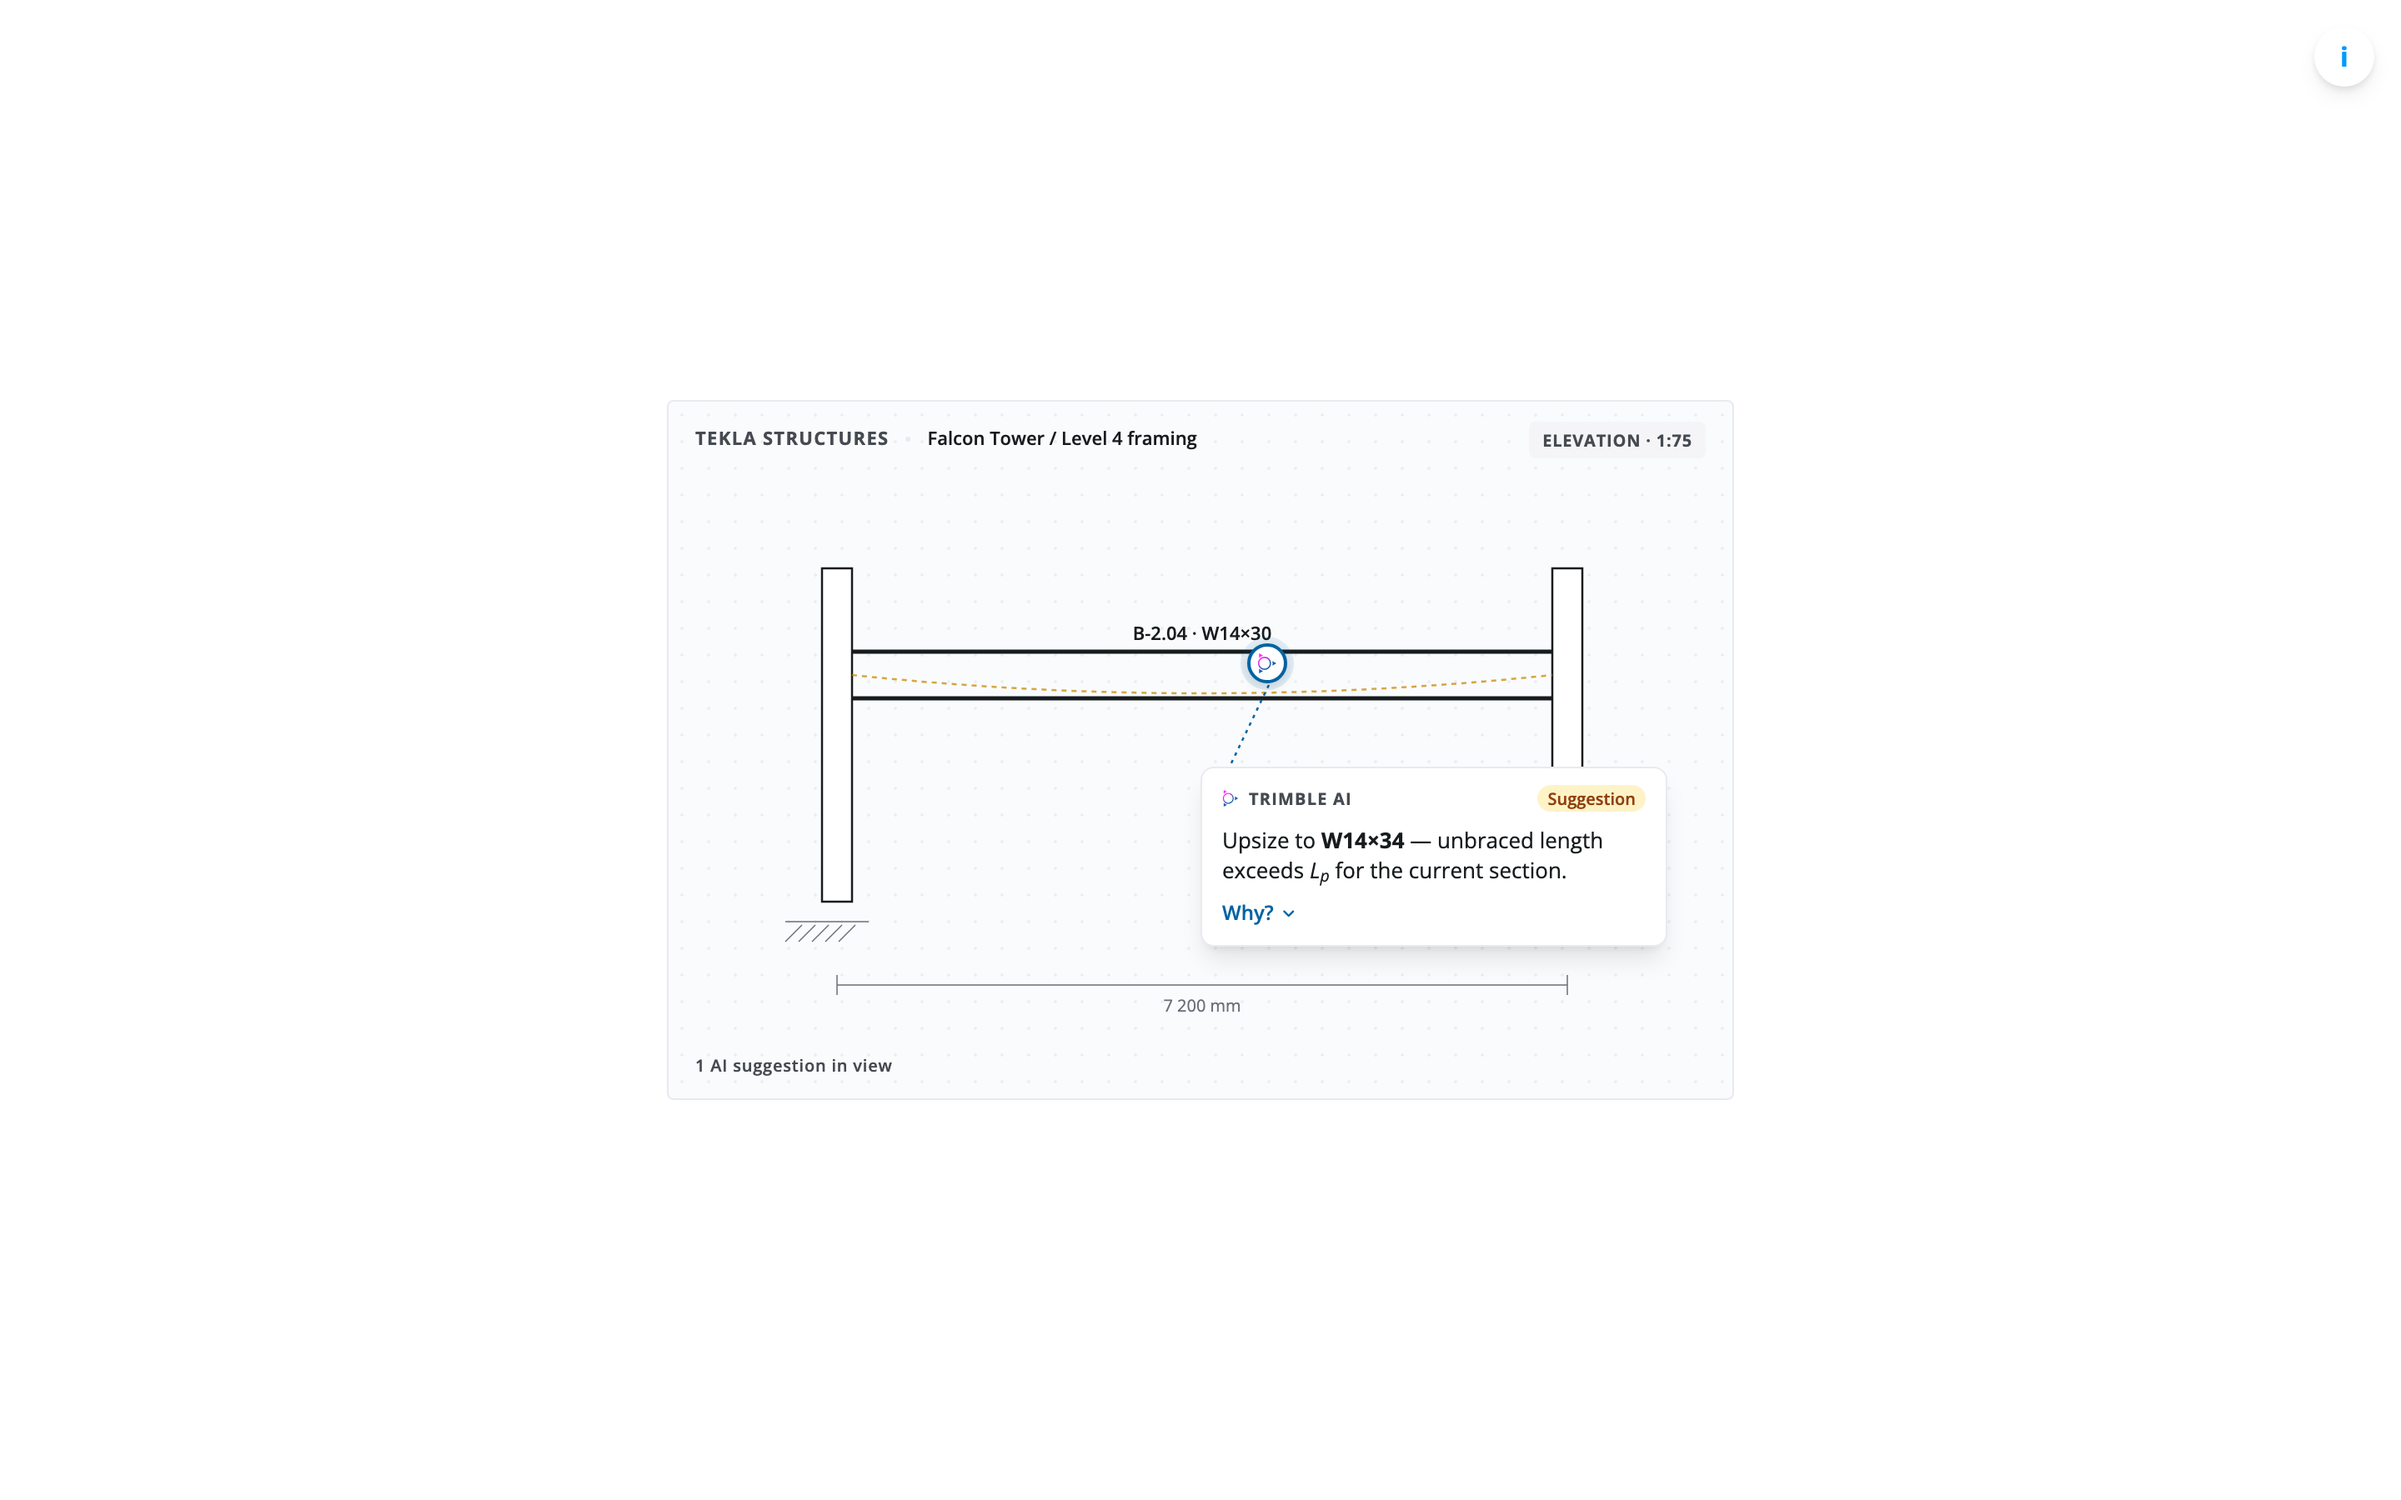
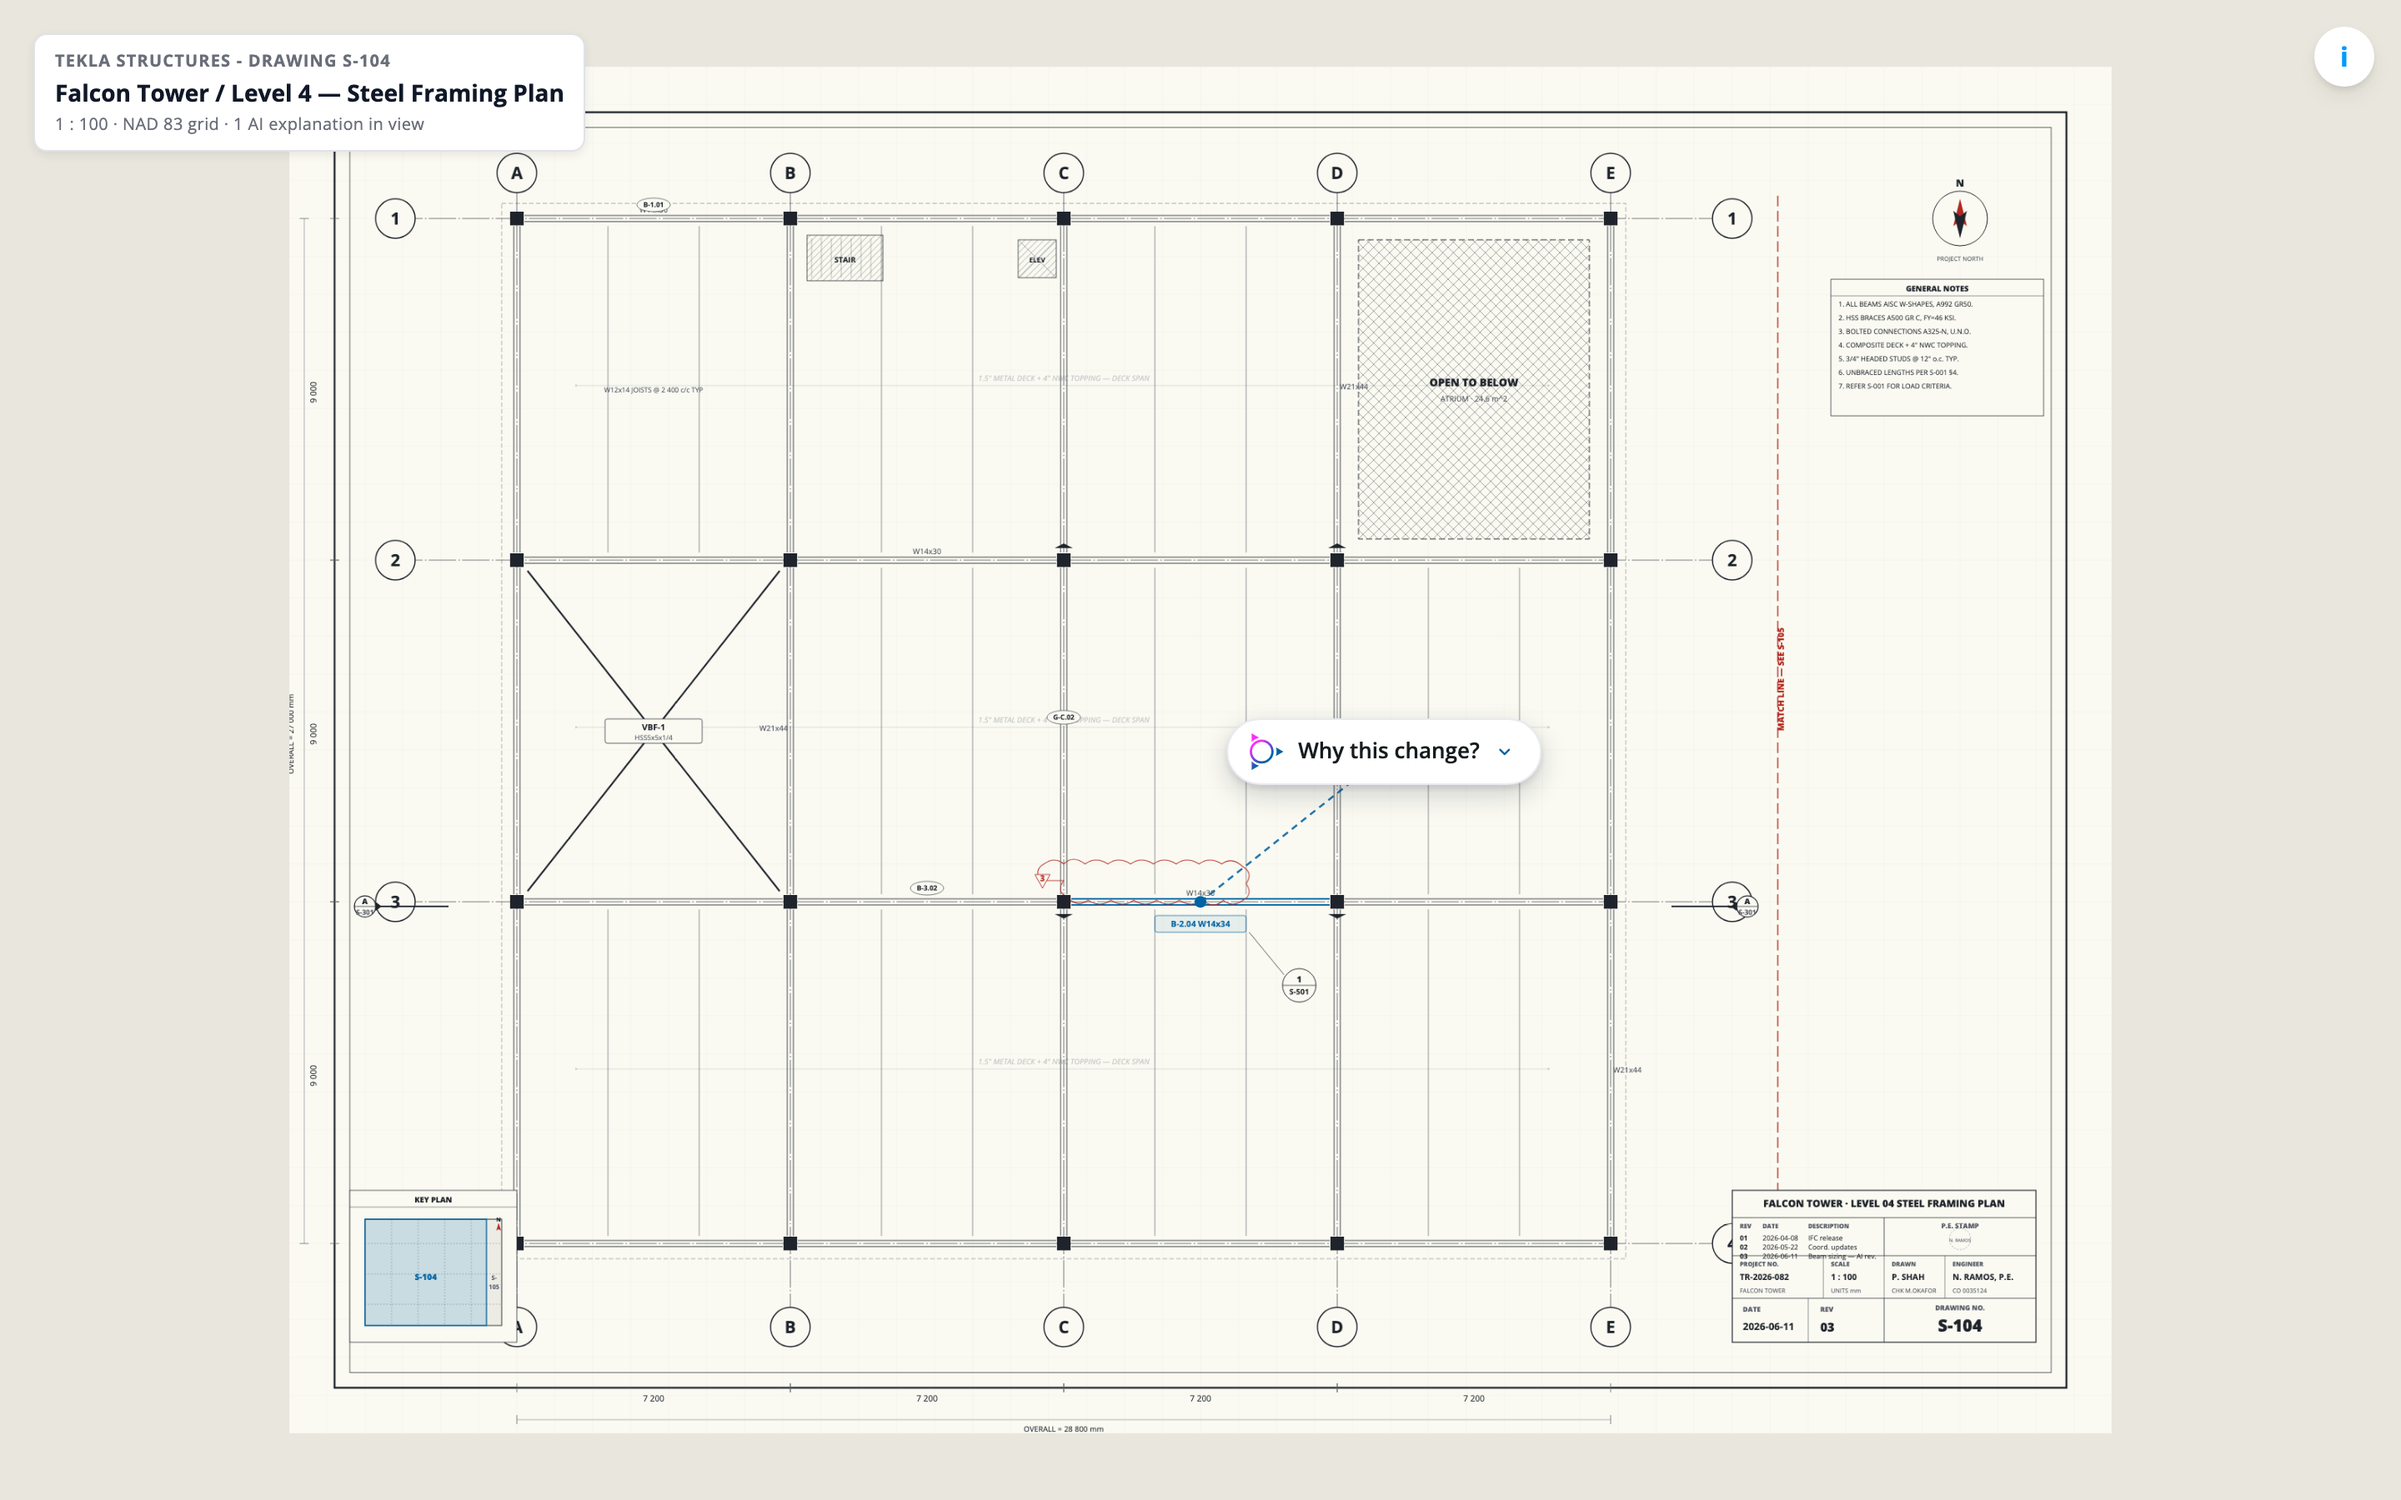
Expert4: highlight key facts and clean up evidence card connector
Bump the AI logo and brand eyebrow in the evidence card, mark up the
key terms in the answer body so the supporting facts stand out, and
swap the rainbow card-to-pill link for a single 1.5px Trimble-blue
line that visually extends the "Why this change?" button border.

diff --git a/src/components/Expert4.tsx b/src/components/Expert4.tsx
@@ -866,20 +866,20 @@ function EvidenceCard({ onClose }: { onClose: () => void }) {
           gap: 8,
         }}
       >
-        <div style={{ display: 'flex', flexDirection: 'column', gap: 8, minWidth: 0 }}>
+        <div style={{ display: 'flex', flexDirection: 'column', gap: 14, minWidth: 0 }}>
           <span
             style={{
               display: 'inline-flex',
               alignItems: 'center',
-              gap: 6,
-              fontSize: 10,
-              fontWeight: 700,
+              gap: 7,
+              fontSize: 12,
+              fontWeight: 400,
               letterSpacing: '0.06em',
               textTransform: 'uppercase',
               color: '#6a6e79',
             }}
           >
-            <TrimbleAiLogo size={11} />
+            <TrimbleAiLogo size={16} />
             Trimble AI · why answers
           </span>
           <div style={{ display: 'flex', gap: 10 }}>
